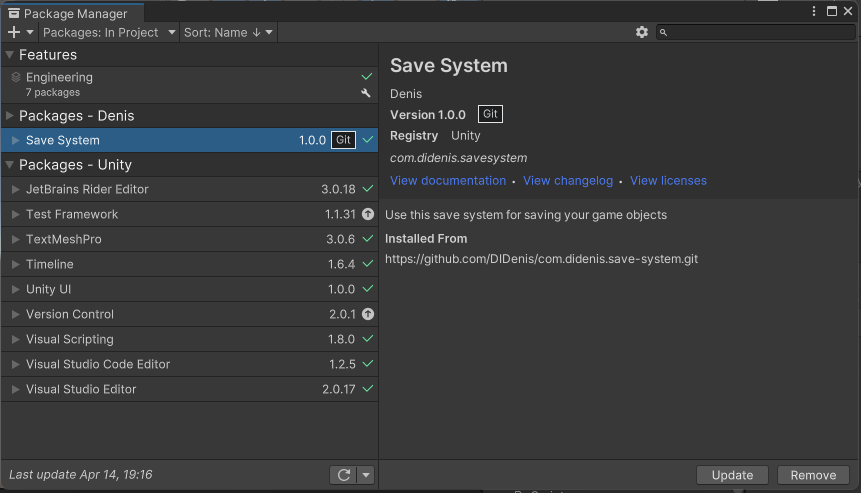
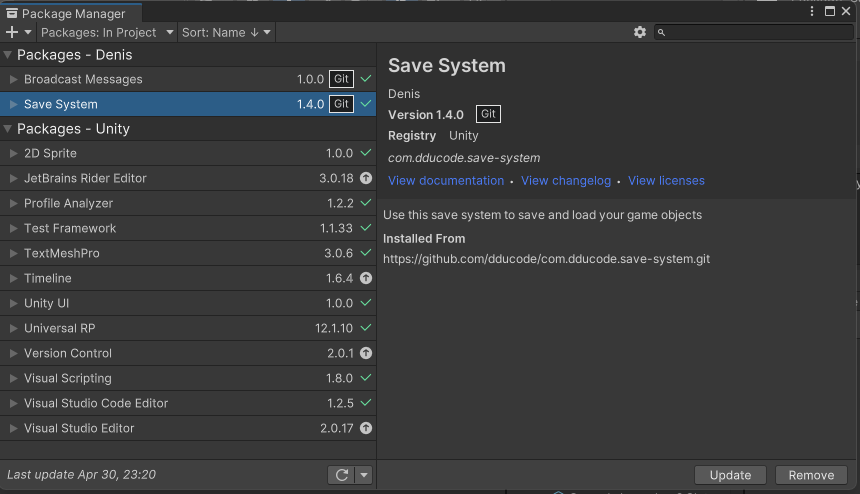
updated installing

diff --git a/docs/manual/installing.html b/docs/manual/installing.html
@@ -96,6 +96,15 @@
 <p><img src="../images/Screenshot_5.png" alt=""></p>
 </li>
 </ol>
+<p>However, you can see some errors in the debug console. The
+save system has a dependency on UniTask.
+Unfortunately, Unity Package Manager cannot resolve
+dependencies between Git repositories, so you need to install
+UniTask manually.</p>
+<p>Copy this link
+<code>https://github.com/Cysharp/UniTask.git?path=src/UniTask/Assets/Plugins/UniTask</code>
+and install UniTask in the same way as you installed
+the save system</p>
 </article>
 
 

diff --git a/docfx/manual/installing.md b/docfx/manual/installing.md
@@ -25,3 +25,14 @@ Do these steps to install the package:
 6. After a while the package will be added to your project
 
     ![](../images/Screenshot_5.png)
+
+However, you can see some errors in the debug console. The
+save system has a dependency on UniTask.
+Unfortunately, Unity Package Manager cannot resolve 
+dependencies between Git repositories, so you need to install 
+UniTask manually. 
+
+Copy this link 
+`https://github.com/Cysharp/UniTask.git?path=src/UniTask/Assets/Plugins/UniTask`
+and install UniTask in the same way as you installed
+the save system
